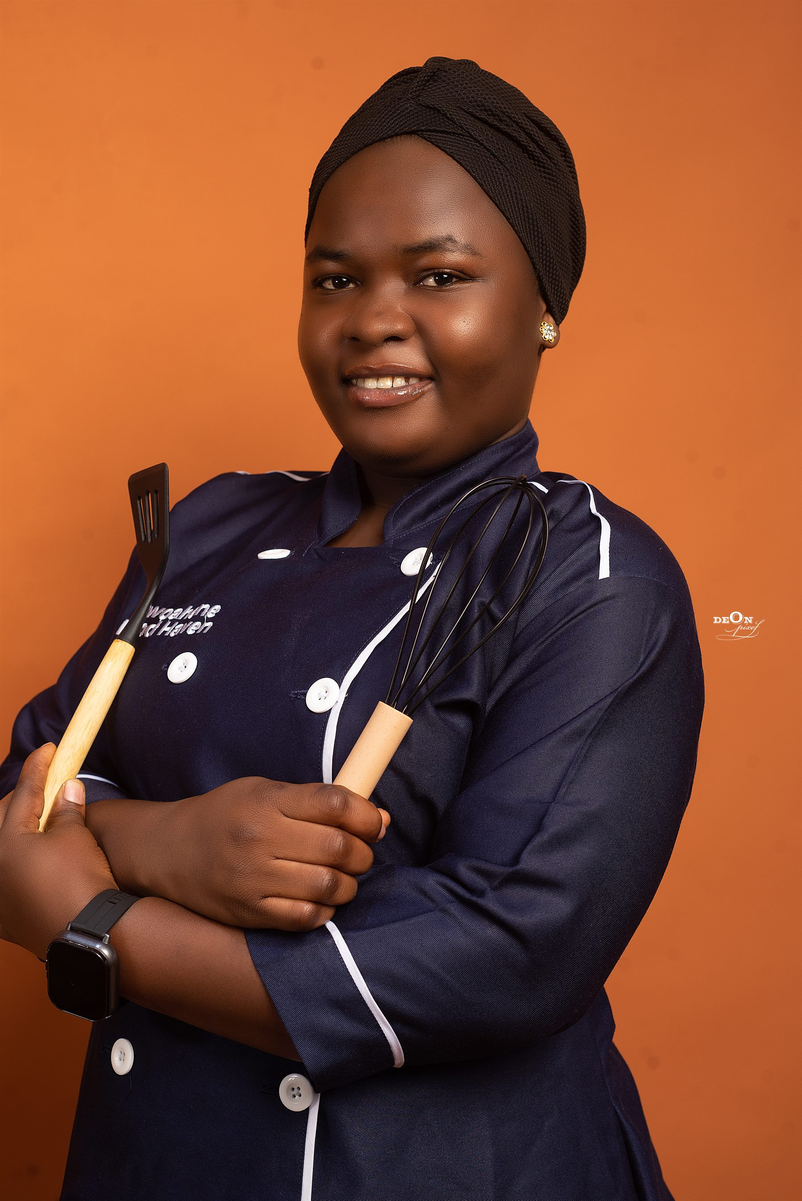
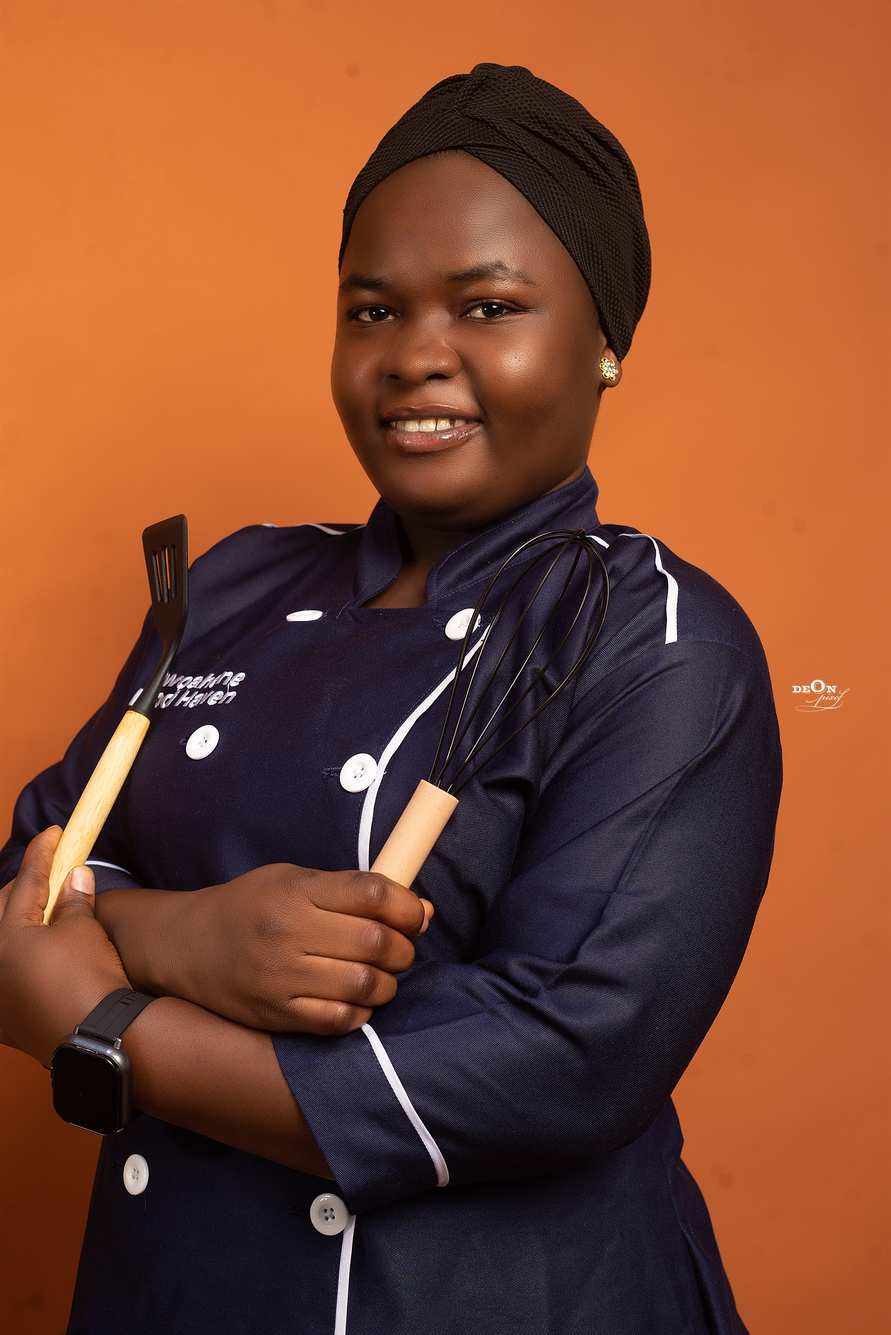
New hero: right-side portrait layout + higher-quality image

Changed region(s): [[0.7156, 0.4674, 0.8089, 0.592]]

diff --git a/src/components/Hero.jsx b/src/components/Hero.jsx
@@ -8,84 +8,97 @@ const fade = (delay) => ({
   transition: { duration: 0.8, delay, ease: 'easeOut' },
 });
 
+const fromRight = (delay) => ({
+  initial: { opacity: 0, x: 40 },
+  animate: { opacity: 1, x: 0 },
+  transition: { duration: 1, delay, ease: 'easeOut' },
+});
+
+const stats = [
+  ['4+', 'Years in kitchen'],
+  ['100s', 'Cakes designed'],
+  ['ENDLESS', 'Flavour ideas'],
+];
+
 export default function Hero() {
   return (
     <section className="relative flex min-h-[100svh] items-center overflow-hidden bg-chocolate-900">
-      {/* Full-bleed photo */}
-      <img
-        src={site.hero.image}
-        alt={site.hero.imageAlt}
-        className="absolute inset-0 h-full w-full object-cover"
-      />
-
-      {/* Scrim layers — guarantee the text is readable on any photo */}
-      <div aria-hidden="true" className="absolute inset-0 bg-chocolate-900/50" />
+      {/* Decorative glow */}
       <div
         aria-hidden="true"
-        className="absolute inset-0 bg-gradient-to-r from-chocolate-900/95 via-chocolate-900/70 to-chocolate-900/30"
+        className="pointer-events-none absolute -right-40 -top-40 h-[36rem] w-[36rem] rounded-full bg-gold-500/10 blur-3xl"
       />
       <div
         aria-hidden="true"
-        className="absolute inset-0 bg-gradient-to-t from-chocolate-900/70 via-transparent to-chocolate-900/40"
+        className="pointer-events-none absolute -bottom-56 -left-32 h-[30rem] w-[30rem] rounded-full bg-rose-500/10 blur-3xl"
       />
 
-      {/* Text over the image */}
-      <div className="container-content relative z-10 py-28">
-        <div className="max-w-3xl">
-          <motion.p {...fade(0.1)} className="mb-6">
-            <span className="inline-block rounded-full border border-gold-400/40 bg-chocolate-900/40 px-4 py-1.5 text-[11px] uppercase tracking-[0.32em] text-gold-300 backdrop-blur-sm">
-              {site.role}
-            </span>
-          </motion.p>
+      <div className="container-content relative z-10 py-24 lg:py-28">
+        <div className="grid items-center gap-14 lg:grid-cols-[1fr_minmax(0,26rem)]">
+          {/* Text column */}
+          <div className="max-w-3xl">
+            <motion.p {...fade(0.1)} className="mb-6">
+              <span className="inline-block rounded-full border border-gold-400/40 bg-chocolate-900/40 px-4 py-1.5 text-[11px] uppercase tracking-[0.32em] text-gold-300 backdrop-blur-sm">
+                {site.role}
+              </span>
+            </motion.p>
 
-          <motion.h1
-            {...fade(0.22)}
-            className="font-serif text-4xl leading-[1.05] text-white drop-shadow-[0_3px_14px_rgba(20,10,5,0.55)] sm:text-6xl lg:text-[4.6rem]"
-          >
-            {site.name}
-          </motion.h1>
+            <motion.h1
+              {...fade(0.22)}
+              className="font-serif text-4xl leading-[1.05] text-ivory-50 sm:text-6xl lg:text-[4.2rem]"
+            >
+              {site.name}
+            </motion.h1>
 
-          <motion.div {...fade(0.34)} className="mt-6 flex items-center gap-4">
-            <span className="h-px w-12 bg-gold-400" aria-hidden="true" />
-            <p className="text-sm font-medium uppercase tracking-[0.28em] text-gold-300 drop-shadow">
-              Pastry Chef · Cake Artist · Dessert Specialist
-            </p>
-          </motion.div>
+            <motion.div {...fade(0.34)} className="mt-6 flex items-center gap-4">
+              <span className="h-px w-12 bg-gold-400" aria-hidden="true" />
+              <p className="text-sm font-medium uppercase tracking-[0.28em] text-gold-300">
+                Pastry Chef · Cake Artist · Dessert Specialist
+              </p>
+            </motion.div>
 
-          <motion.p
-            {...fade(0.46)}
-            className="mt-8 max-w-xl text-base leading-relaxed text-ivory-50 drop-shadow-[0_2px_10px_rgba(20,10,5,0.6)] sm:text-lg"
-          >
-            {site.tagline}
-          </motion.p>
+            <motion.p
+              {...fade(0.46)}
+              className="mt-8 max-w-xl text-base leading-relaxed text-ivory-50/90 sm:text-lg"
+            >
+              {site.tagline}
+            </motion.p>
 
-          <motion.div {...fade(0.6)} className="mt-10 flex flex-col gap-4 sm:flex-row">
-            <Link to="/creations" className="btn-gold">
-              View My Creations
-            </Link>
-            <Link to="/shop" className="btn-outline-light">
-              Visit Shop
-            </Link>
-          </motion.div>
+            <motion.div {...fade(0.6)} className="mt-10 flex flex-col gap-4 sm:flex-row">
+              <Link to="/creations" className="btn-gold">
+                View My Creations
+              </Link>
+              <Link to="/shop" className="btn-outline-light">
+                Visit Shop
+              </Link>
+            </motion.div>
 
-          <motion.div
-            {...fade(0.74)}
-            className="mt-14 grid max-w-md grid-cols-3 gap-6 border-t border-ivory-50/25 pt-8"
-          >
-            {[
-              ['4+', 'Years in kitchen'],
-              ['100s', 'Cakes designed'],
-              ['ENDLESS', 'Flavour ideas'],
-            ].map(([num, label]) => (
-              <div key={label}>
-                <p className="font-serif text-2xl text-gold-300 drop-shadow sm:text-3xl">
-                  {num}
-                </p>
-                <p className="mt-1 text-[10px] uppercase tracking-[0.22em] text-ivory-50/80">
-                  {label}
-                </p>
-              </div>
-            ))}
+            <motion.div
+              {...fade(0.74)}
+              className="mt-14 grid max-w-md grid-cols-3 gap-6 border-t border-ivory-50/25 pt-8"
+            >
+              {stats.map(([num, label]) => (
+                <div key={label}>
+                  <p className="font-serif text-2xl text-gold-300 sm:text-3xl">{num}</p>
+                  <p className="mt-1 text-[10px] uppercase tracking-[0.22em] text-ivory-50/80">
+                    {label}
+                  </p>
+                </div>
+              ))}
+            </motion.div>
+          </div>
+
+          {/* Portrait — framed, right side, not full-bleed */}
+          <motion.div {...fromRight(0.3)} className="relative mx-auto w-full max-w-sm lg:max-w-full">
+            <div
+              aria-hidden="true"
+              className="absolute -inset-3 rotate-2 rounded-[2rem] border border-gold-400/30"
+            />
+            <img
+              src={site.hero.image}
+              alt={site.hero.imageAlt}
+              className="relative aspect-[4/5] w-full rounded-[1.75rem] bg-chocolate-800 object-cover shadow-2xl shadow-black/50 ring-1 ring-gold-400/30"
+            />
           </motion.div>
         </div>
       </div>
